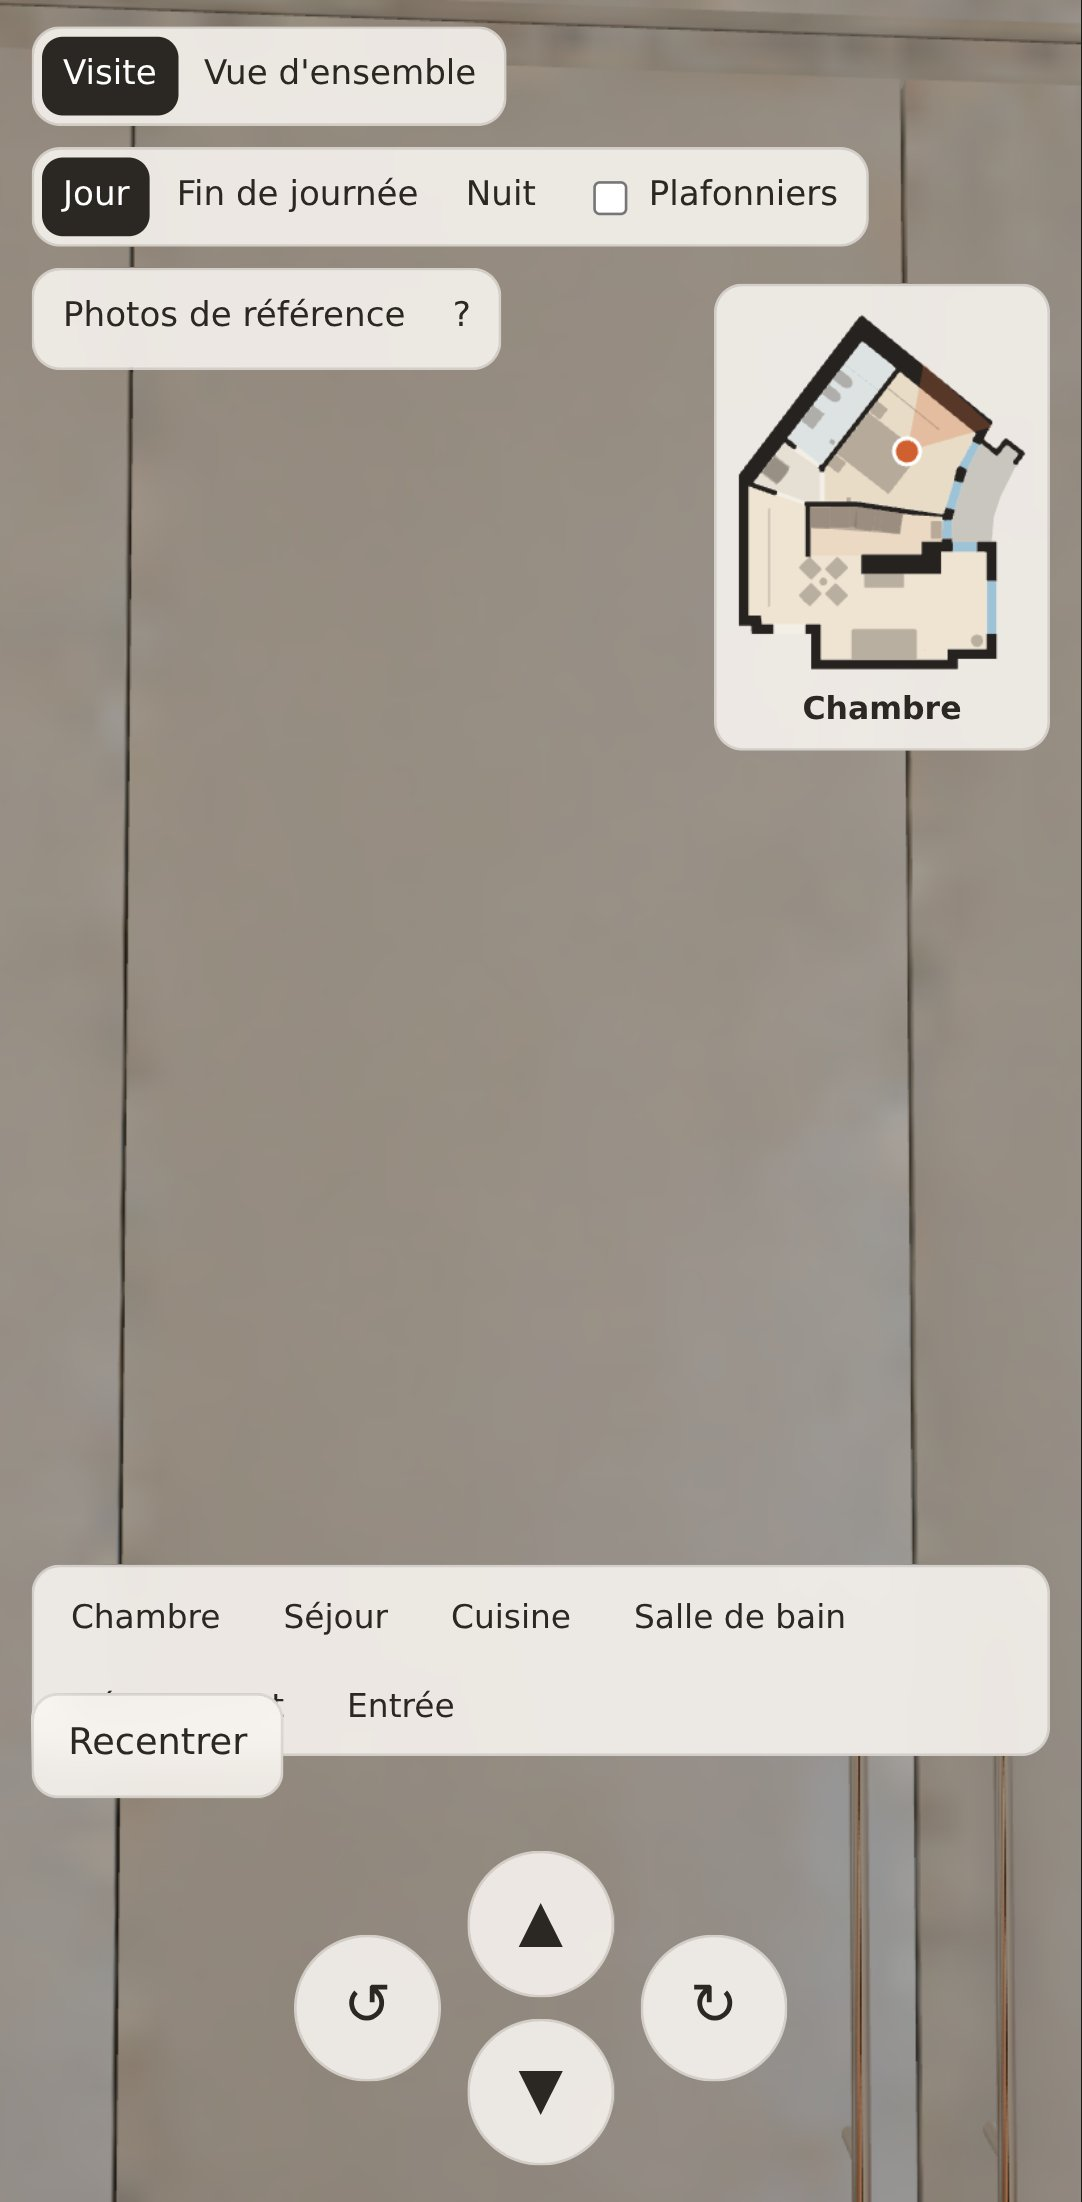
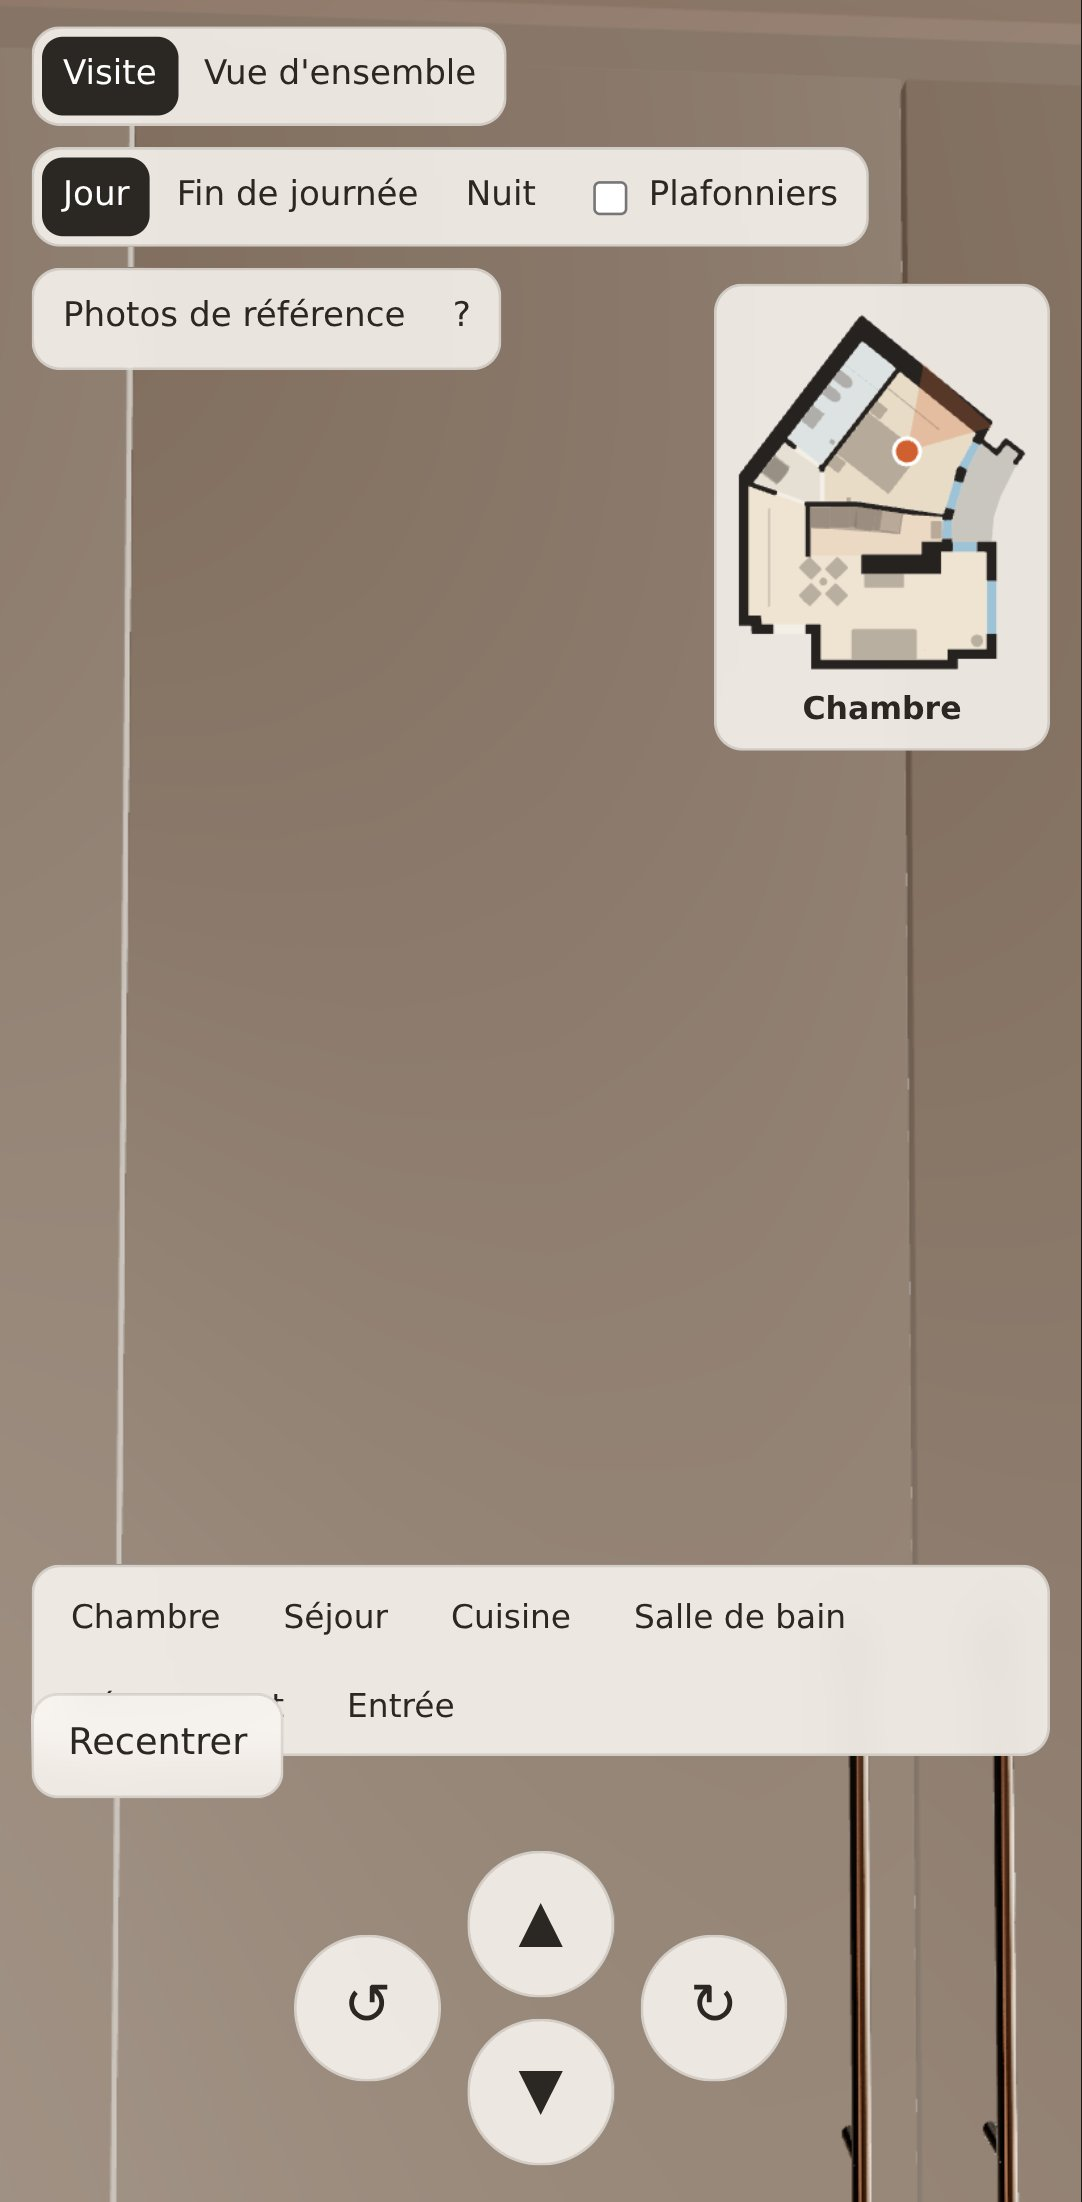
Vérifications : 25/25 + mode Aménager ; limites connues à jour
Claude-Session: https://claude.ai/code/session_01JeXZXTsmujnmrYULKFm8L2

diff --git a/docs/VERIFICATION.md b/docs/VERIFICATION.md
@@ -37,6 +37,15 @@ d'affichage, très lente en rendu logiciel.
 | Pas de défilement horizontal | OK |
 | Aucune erreur JavaScript | OK |
 
+## Mode « Aménager » (`web/scripts/test_amenager.mjs`)
+
+| Vérification | Résultat |
+|---|---|
+| Clic sur un meuble dans la vue d'ensemble : sélection | OK (« Lit MANDAL 160×200 ») |
+| Glisser à la souris : déplacement | OK (0,71 m / 0,73 m) |
+| Bouton ↺ 90° : rotation | OK (π/2) |
+| Implantation mémorisée et copiable (JSON) | OK |
+
 ## Géométrie
 
 - Étanchéité des murs : lancer de rayons tous les 10 cm sur le pourtour de
@@ -49,7 +58,11 @@ d'affichage, très lente en rendu logiciel.
 - Les captures sont produites en rendu logiciel ; sur une vraie carte
   graphique le rendu est identique mais fluide.
 - Pas de test sur un iPhone réel (émulation Chromium uniquement).
-- Bruit résiduel de précalcul (marbrures légères) sur les grandes surfaces
-  blanches (façades du placard, tableaux des fenêtres), réduit par les
-  portails de lumière mais encore visible de près.
+- Meubles, murs, tableaux et niches sont éclairés en temps réel (unis, sans
+  marbrures) ; seuls sols, plafonds, faïence et extérieur gardent le
+  précalcul. Les murs perdent donc les dégradés de lumière indirecte fine.
+- Les lampes qu'on déplace gardent leur halo précalculé au sol et au plafond
+  à l'ancienne place (leur lumière directe, elle, suit la lampe).
+- En rendu logiciel (tests), les ombres des lampes de nuit ralentissent
+  fortement l'affichage ; sur une vraie carte graphique c'est fluide.
 - La salle de bain (pièce aveugle) reste assez sombre en mode jour.
